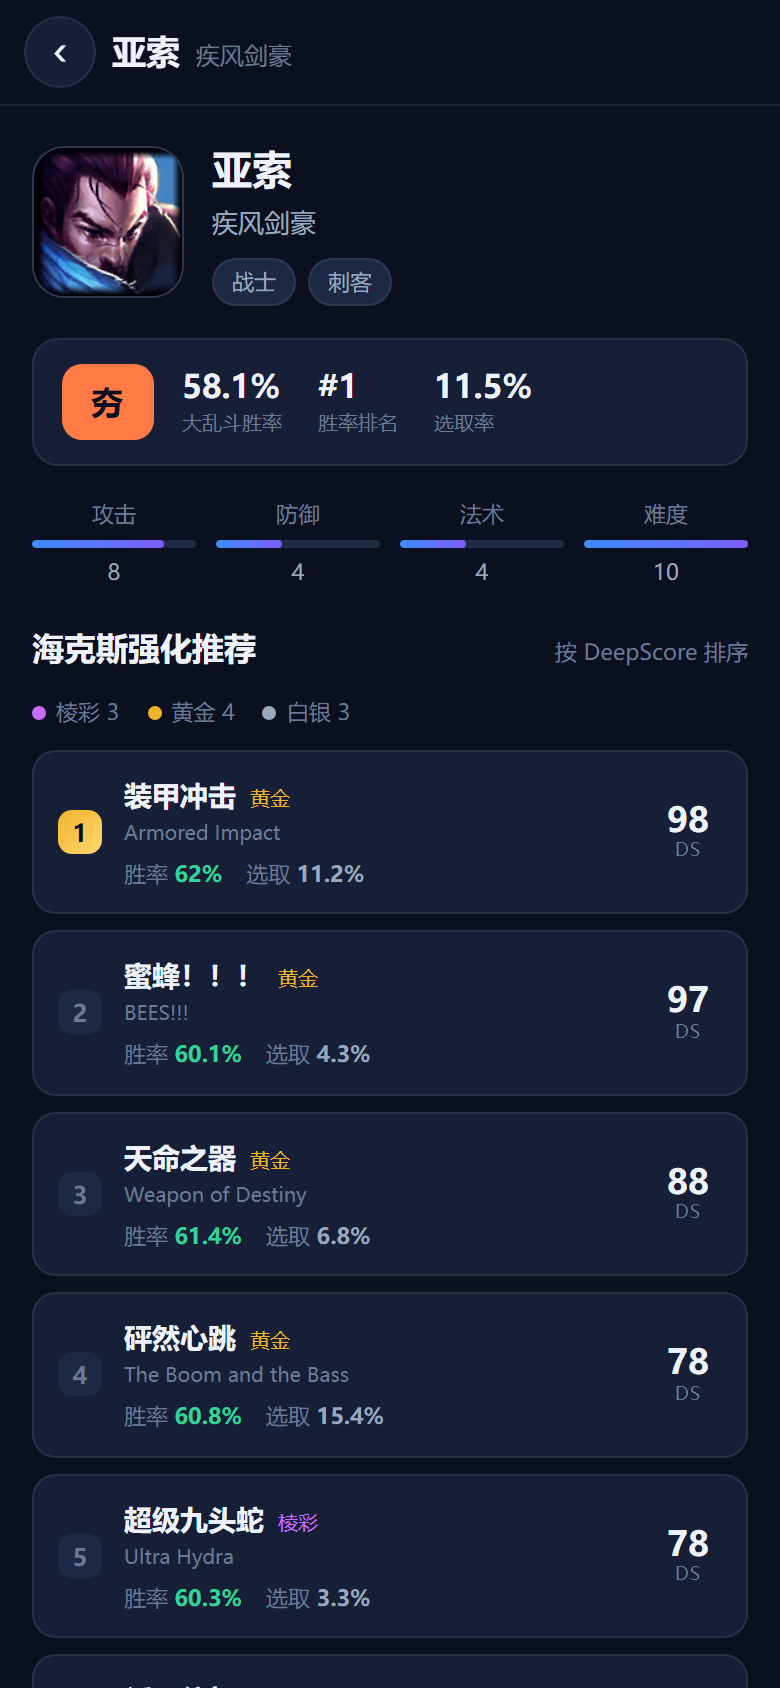
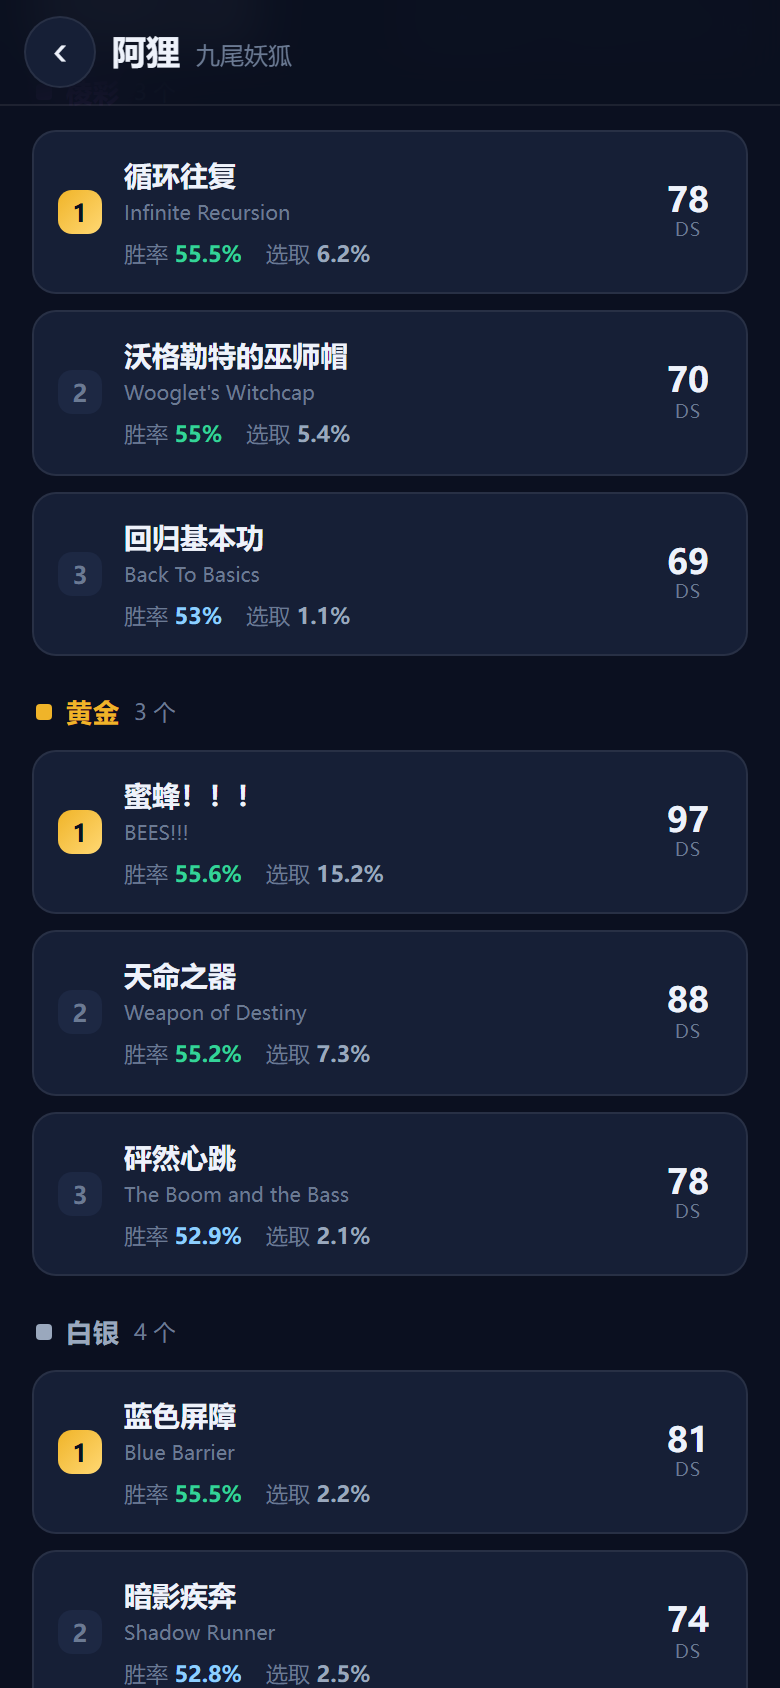
feat: 详情页海克斯按稀有度分组展示
- 海克斯按 棱彩 → 黄金 → 白银 分组，组内按 DeepScore 降序
- 分组标题显示稀有度色点、名称与该档数量
- 移除冗余的稀有度统计条与行内稀有度标签（分组后已重复）

diff --git a/src/views/ChampionDetail.vue b/src/views/ChampionDetail.vue
@@ -31,11 +31,24 @@ const statBars = computed(() => [
   { label: '难度', value: props.champion.difficulty },
 ])
 
-/** 按稀有度分组统计 */
-const raritySummary = computed(() => {
-  const m = { 棱彩: 0, 黄金: 0, 白银: 0 }
-  for (const a of augments.value) if (m[a.rarity] != null) m[a.rarity]++
-  return m
+/** 稀有度展示顺序：棱彩 → 黄金 → 白银 */
+const RARITY_ORDER = ['棱彩', '黄金', '白银']
+
+/**
+ * 按稀有度分组后的海克斯列表
+ * 组内仍按 DeepScore 降序（DS 已跨稀有度校准，可直接比较强度）
+ */
+const augmentGroups = computed(() => {
+  const buckets = new Map(RARITY_ORDER.map((r) => [r, []]))
+  for (const a of augments.value) {
+    const key = buckets.has(a.rarity) ? a.rarity : '白银'
+    buckets.get(key).push(a)
+  }
+  return RARITY_ORDER.map((r) => ({
+    rarity: r,
+    meta: RARITY_META[r],
+    list: buckets.get(r).sort((x, y) => (y.score ?? 0) - (x.score ?? 0)),
+  })).filter((g) => g.list.length > 0)
 })
 
 function itemName(id) {
@@ -111,48 +124,51 @@ function winTone(v) {
       </div>
     </section>
 
-    <!-- 海克斯推荐 -->
+    <!-- 海克斯推荐（按稀有度分组） -->
     <section class="block">
       <div class="block-head">
         <h2>海克斯强化推荐</h2>
-        <span class="block-note">按 DeepScore 排序</span>
+        <span class="block-note">按稀有度分组 · 组内按 DeepScore</span>
       </div>
 
-      <div class="rarity-legend">
-        <span v-for="(v, k) in raritySummary" :key="k" class="legend-item">
-          <i class="dot" :style="{ background: RARITY_META[k].color }" />
-          {{ k }} {{ v }}
-        </span>
+      <div v-if="augments.length" class="rarity-groups">
+        <div v-for="g in augmentGroups" :key="g.rarity" class="rarity-group">
+          <div class="rarity-head">
+            <i class="rarity-dot" :style="{ background: g.meta.color }" />
+            <span class="rarity-name" :style="{ color: g.meta.color }">{{ g.rarity }}</span>
+            <span class="rarity-count">{{ g.list.length }} 个</span>
+          </div>
+
+          <ul class="aug-list">
+            <li v-for="(a, i) in g.list" :key="a.name" class="aug-item">
+              <span class="aug-rank" :class="{ top: i === 0 }">{{ i + 1 }}</span>
+
+              <div class="aug-main">
+                <div class="aug-title-row">
+                  <span class="aug-name">{{ a.name }}</span>
+                </div>
+                <p class="aug-en">{{ a.nameEn }}</p>
+                <div class="aug-metrics">
+                  <span class="metric">
+                    胜率
+                    <b :class="winTone(a.winRate)">{{
+                      a.winRate != null ? a.winRate + '%' : '—'
+                    }}</b>
+                  </span>
+                  <span class="metric">
+                    选取 <b>{{ a.pickRate != null ? a.pickRate + '%' : '—' }}</b>
+                  </span>
+                </div>
+              </div>
+
+              <div class="aug-score">
+                <span class="score-num">{{ a.score ?? '—' }}</span>
+                <span class="score-label">DS</span>
+              </div>
+            </li>
+          </ul>
+        </div>
       </div>
-
-      <ul v-if="augments.length" class="aug-list">
-        <li v-for="(a, i) in augments" :key="a.name" class="aug-item">
-          <span class="aug-rank" :class="i === 0 ? 'top' : ''">{{ i + 1 }}</span>
-
-          <div class="aug-main">
-            <div class="aug-title-row">
-              <span class="aug-name">{{ a.name }}</span>
-              <span class="aug-rarity" :style="{ color: RARITY_META[a.rarity]?.color }">
-                {{ a.rarity }}
-              </span>
-            </div>
-            <p class="aug-en">{{ a.nameEn }}</p>
-            <div class="aug-metrics">
-              <span class="metric">
-                胜率 <b :class="winTone(a.winRate)">{{ a.winRate != null ? a.winRate + '%' : '—' }}</b>
-              </span>
-              <span class="metric">
-                选取 <b>{{ a.pickRate != null ? a.pickRate + '%' : '—' }}</b>
-              </span>
-            </div>
-          </div>
-
-          <div class="aug-score">
-            <span class="score-num">{{ a.score ?? '—' }}</span>
-            <span class="score-label">DS</span>
-          </div>
-        </li>
-      </ul>
       <p v-else class="empty">暂无该英雄的海克斯数据</p>
     </section>
 
@@ -416,24 +432,37 @@ function winTone(v) {
   color: var(--text-faint);
 }
 
-.rarity-legend {
+/* ---- 按稀有度分组 ---- */
+.rarity-groups {
   display: flex;
-  gap: 14px;
-  margin-bottom: 10px;
-  font-size: 11px;
-  color: var(--text-faint);
+  flex-direction: column;
+  gap: 18px;
 }
 
-.legend-item {
+.rarity-head {
   display: flex;
   align-items: center;
-  gap: 5px;
+  gap: 7px;
+  margin-bottom: 9px;
+  padding-left: 2px;
 }
 
-.dot {
-  width: 7px;
-  height: 7px;
-  border-radius: 50%;
+.rarity-dot {
+  width: 8px;
+  height: 8px;
+  border-radius: 2px;
+  flex: 0 0 auto;
+}
+
+.rarity-name {
+  font-size: 13px;
+  font-weight: 700;
+  letter-spacing: 0.5px;
+}
+
+.rarity-count {
+  font-size: 11px;
+  color: var(--text-faint);
 }
 
 .aug-list {
@@ -491,11 +520,6 @@ function winTone(v) {
   overflow: hidden;
   text-overflow: ellipsis;
   white-space: nowrap;
-}
-
-.aug-rarity {
-  font-size: 10px;
-  flex: 0 0 auto;
 }
 
 .aug-en {
